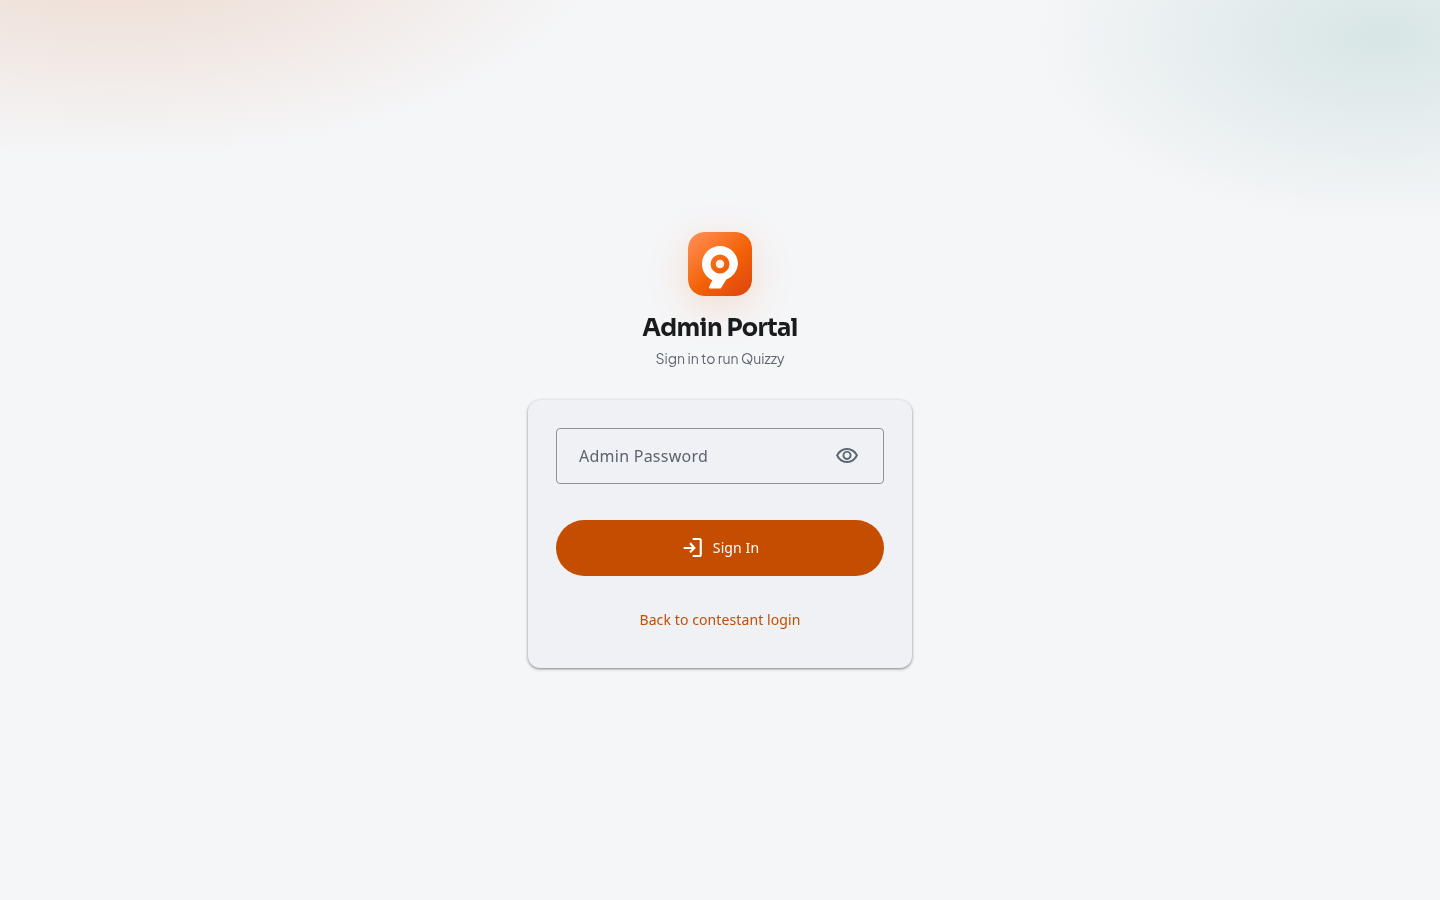
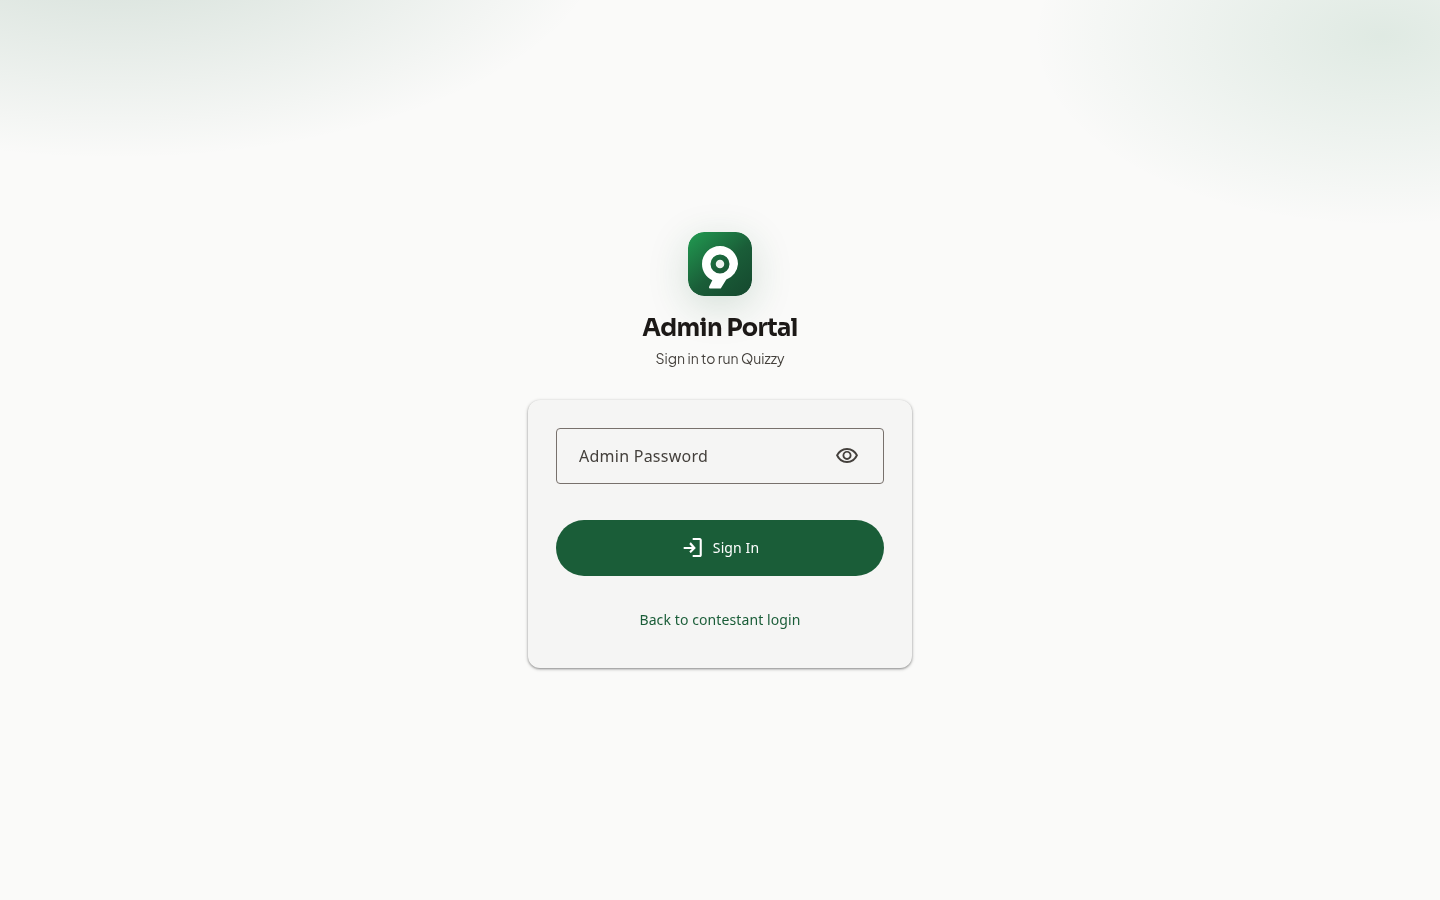
Switch Quizzy theme to WorkVar forest green
Retheme AWC MD3 tokens, logos, and brand accents to workvar.com
forest-800 (#1A5D38) and refresh landing screenshots.

diff --git a/app/admin/page.jsx b/app/admin/page.jsx
@@ -302,12 +302,12 @@ function AddQuestionModal({ quizId, sections, onClose, onAdded }) {
               </div>
               <div className="space-y-3">
                 {testCases.map((tc, i) => (
-                  <div key={i} className={`p-3 rounded-apple border ${tc.isHidden ? 'border-orange-200 bg-orange-50' : 'border-apple-gray-2 bg-white'}`}>
+                  <div key={i} className={`p-3 rounded-apple border ${tc.isHidden ? 'border-emerald-200 bg-emerald-50' : 'border-apple-gray-2 bg-white'}`}>
                     <div className="flex items-center justify-between mb-2">
                       <span className="text-xs font-bold text-apple-text-2">Test {i + 1}</span>
                       <div className="flex items-center gap-3">
                         <label className="flex items-center gap-1.5 cursor-pointer">
-                          <input type="checkbox" checked={tc.isHidden} onChange={e => updateTestCase(i, 'isHidden', e.target.checked)} className="accent-orange-500" />
+                          <input type="checkbox" checked={tc.isHidden} onChange={e => updateTestCase(i, 'isHidden', e.target.checked)} className="accent-emerald-700" />
                           <span className="text-xs text-apple-text-2">Hidden</span>
                         </label>
                         {testCases.length > 1 && (
@@ -1030,11 +1030,11 @@ function EditQuestionModal({ question, sections, onClose, onSaved }) {
               </div>
               <div className="space-y-3">
                 {testCases.map((tc, i) => (
-                  <div key={i} className={`p-3 rounded-apple border ${tc.isHidden ? 'border-orange-200 bg-orange-50' : 'border-apple-gray-2 bg-white'}`}>
+                  <div key={i} className={`p-3 rounded-apple border ${tc.isHidden ? 'border-emerald-200 bg-emerald-50' : 'border-apple-gray-2 bg-white'}`}>
                     <div className="flex items-center justify-between mb-2">
                       <span className="text-xs font-bold text-apple-text-2">Test {i + 1}</span>
                       <div className="flex items-center gap-3">
-                        <label className="flex items-center gap-1.5 cursor-pointer"><input type="checkbox" checked={tc.isHidden} onChange={e => updateTestCase(i, 'isHidden', e.target.checked)} className="accent-orange-500" /><span className="text-xs text-apple-text-2">Hidden</span></label>
+                        <label className="flex items-center gap-1.5 cursor-pointer"><input type="checkbox" checked={tc.isHidden} onChange={e => updateTestCase(i, 'isHidden', e.target.checked)} className="accent-emerald-700" /><span className="text-xs text-apple-text-2">Hidden</span></label>
                         {testCases.length > 1 && <button onClick={() => setTestCases(p => p.filter((_, idx) => idx !== i))} className="text-apple-text-3 hover:text-apple-red"><svg className="w-3.5 h-3.5" fill="none" viewBox="0 0 24 24" stroke="currentColor"><path strokeLinecap="round" strokeLinejoin="round" strokeWidth={2} d="M6 18L18 6M6 6l12 12"/></svg></button>}
                       </div>
                     </div>
@@ -1209,7 +1209,7 @@ function QuizQuestionsPanel({ quiz, onBack }) {
                     {q.isReleased ? <span className="text-xs font-semibold text-apple-green">Released</span> : <span className="text-xs text-apple-text-3">Unreleased</span>}
                     {q.type === 'CODING' && <span className="text-xs bg-blue-100 text-apple-blue font-semibold px-1.5 py-0.5 rounded-full">Coding</span>}
                     {q.type !== 'CODING' && q.isMultiAnswer && <span className="text-xs bg-purple-100 text-purple-600 font-semibold px-1.5 py-0.5 rounded-full">Multi</span>}
-                    {q.timeLimitSeconds && <span className="text-xs bg-orange-50 text-orange-600 font-semibold px-1.5 py-0.5 rounded-full">{q.timeLimitSeconds}s</span>}
+                    {q.timeLimitSeconds && <span className="text-xs bg-emerald-50 text-emerald-700 font-semibold px-1.5 py-0.5 rounded-full">{q.timeLimitSeconds}s</span>}
                     <span className="text-xs text-apple-text-3">{q.stats?.attempted || 0} responses</span>
                   </div>
                 </div>
@@ -1243,10 +1243,10 @@ function QuizQuestionsPanel({ quiz, onBack }) {
                         <p className="text-xs font-semibold text-apple-text-2 uppercase tracking-wide mb-2">Test Cases ({q.testCases.length})</p>
                         <div className="space-y-2">
                           {q.testCases.map((tc, ti) => (
-                            <div key={tc.id} className={`rounded-apple border p-3 text-xs font-mono ${tc.isHidden ? 'border-orange-200 bg-orange-50' : 'border-apple-gray-2 bg-white'}`}>
+                            <div key={tc.id} className={`rounded-apple border p-3 text-xs font-mono ${tc.isHidden ? 'border-emerald-200 bg-emerald-50' : 'border-apple-gray-2 bg-white'}`}>
                               <div className="flex items-center gap-2 mb-1">
                                 <span className="font-bold text-apple-text-2">Test {ti + 1}</span>
-                                {tc.isHidden && <span className="text-orange-600 font-semibold">Hidden</span>}
+                                {tc.isHidden && <span className="text-emerald-700 font-semibold">Hidden</span>}
                               </div>
                               {tc.input && <div><span className="text-apple-text-3">In: </span><span className="whitespace-pre-wrap text-apple-text">{tc.input}</span></div>}
                               <div><span className="text-apple-text-3">Expected: </span><span className="whitespace-pre-wrap text-apple-text">{tc.expectedOutput}</span></div>
@@ -1944,7 +1944,7 @@ function TeamsTab() {
                   </td>
                   <td className="px-5 py-3.5 text-right">
                     <div className="flex items-center justify-end gap-1">
-                      <button onClick={() => toggleBan(team)} disabled={banning[team.id]} title={team.isBanned ? 'Unban' : 'Ban'} className={`p-1.5 transition-colors ${team.isBanned ? 'text-apple-green hover:text-green-600' : 'text-orange-400 hover:text-orange-600'}`}>
+                      <button onClick={() => toggleBan(team)} disabled={banning[team.id]} title={team.isBanned ? 'Unban' : 'Ban'} className={`p-1.5 transition-colors ${team.isBanned ? 'text-apple-green hover:text-green-600' : 'text-emerald-600 hover:text-emerald-700'}`}>
                         {team.isBanned
                           ? <svg className="w-4 h-4" fill="none" viewBox="0 0 24 24" stroke="currentColor"><path strokeLinecap="round" strokeLinejoin="round" strokeWidth={2} d="M9 12l2 2 4-4m5.618-4.016A11.955 11.955 0 0112 2.944a11.955 11.955 0 01-8.618 3.04A12.02 12.02 0 003 9c0 5.591 3.824 10.29 9 11.622 5.176-1.332 9-6.03 9-11.622 0-1.042-.133-2.052-.382-3.016z"/></svg>
                           : <svg className="w-4 h-4" fill="none" viewBox="0 0 24 24" stroke="currentColor"><path strokeLinecap="round" strokeLinejoin="round" strokeWidth={2} d="M18.364 18.364A9 9 0 005.636 5.636m12.728 12.728A9 9 0 015.636 5.636m12.728 12.728L5.636 5.636"/></svg>

diff --git a/app/theme.css b/app/theme.css
@@ -1,47 +1,47 @@
 /*!
  * AWC UI — Material Design 3 theme for Quizzy
- * Seed primary: #F26207 (Quizzy brand orange)
- * Surfaces hand-tuned to cool neutrals (avoid warm cream + terracotta clustering).
+ * Seed: WorkVar forest green (#1A5D38 = forest-800 on workvar.com)
+ * Soft surfaces inspired by workvar forest-50 / stone neutrals.
  */
 
 :root {
-  --md-sys-color-primary: #C44D00;
+  --md-sys-color-primary: #1A5D38;
   --md-sys-color-on-primary: #FFFFFF;
-  --md-sys-color-primary-container: #FFDBCD;
-  --md-sys-color-on-primary-container: #3E1400;
-  --md-sys-color-inverse-primary: #FFB596;
-  --md-sys-color-secondary: #5C6370;
+  --md-sys-color-primary-container: #C3F5CD;
+  --md-sys-color-on-primary-container: #062816;
+  --md-sys-color-inverse-primary: #92EAAC;
+  --md-sys-color-secondary: #57534E;
   --md-sys-color-on-secondary: #FFFFFF;
-  --md-sys-color-secondary-container: #E6E8EC;
-  --md-sys-color-on-secondary-container: #191B1F;
-  --md-sys-color-tertiary: #006B5E;
+  --md-sys-color-secondary-container: #E7E5E4;
+  --md-sys-color-on-secondary-container: #1C1917;
+  --md-sys-color-tertiary: #1D7441;
   --md-sys-color-on-tertiary: #FFFFFF;
-  --md-sys-color-tertiary-container: #A0F2E2;
-  --md-sys-color-on-tertiary-container: #00201B;
+  --md-sys-color-tertiary-container: #E1FBE6;
+  --md-sys-color-on-tertiary-container: #062816;
   --md-sys-color-error: #BA1A1A;
   --md-sys-color-on-error: #FFFFFF;
   --md-sys-color-error-container: #FFDAD6;
   --md-sys-color-on-error-container: #410002;
-  --md-sys-color-background: #F5F6F8;
-  --md-sys-color-on-background: #191B1F;
-  --md-sys-color-surface: #F5F6F8;
-  --md-sys-color-on-surface: #191B1F;
-  --md-sys-color-surface-variant: #E3E5E9;
-  --md-sys-color-on-surface-variant: #5C6370;
+  --md-sys-color-background: #FAFAF9;
+  --md-sys-color-on-background: #1C1917;
+  --md-sys-color-surface: #FAFAF9;
+  --md-sys-color-on-surface: #1C1917;
+  --md-sys-color-surface-variant: #E1FBE6;
+  --md-sys-color-on-surface-variant: #44403C;
   --md-sys-color-surface-container-lowest: #FFFFFF;
-  --md-sys-color-surface-container-low: #EFF1F4;
-  --md-sys-color-surface-container: #E9EBEE;
-  --md-sys-color-surface-container-high: #E3E5E9;
-  --md-sys-color-surface-container-highest: #DDDFE3;
-  --md-sys-color-surface-dim: #D5D8DE;
-  --md-sys-color-surface-bright: #F5F6F8;
-  --md-sys-color-outline: #8B93A1;
-  --md-sys-color-outline-variant: #D5D8DE;
-  --md-sys-color-inverse-surface: #2E3138;
-  --md-sys-color-inverse-on-surface: #F0F2F5;
+  --md-sys-color-surface-container-low: #F5F5F4;
+  --md-sys-color-surface-container: #E7E5E4;
+  --md-sys-color-surface-container-high: #E1E3DE;
+  --md-sys-color-surface-container-highest: #D6D3D1;
+  --md-sys-color-surface-dim: #D6D3D1;
+  --md-sys-color-surface-bright: #FAFAF9;
+  --md-sys-color-outline: #78716C;
+  --md-sys-color-outline-variant: #D6D3D1;
+  --md-sys-color-inverse-surface: #292524;
+  --md-sys-color-inverse-on-surface: #F5F5F4;
   --md-sys-color-shadow: #000000;
   --md-sys-color-scrim: #000000;
-  --md-sys-color-surface-tint: #C44D00;
+  --md-sys-color-surface-tint: #1A5D38;
 
   --md-sys-typescale-font-family: var(--font-body), 'Roboto', system-ui, sans-serif;
   --md-ref-typeface-brand: var(--font-display), var(--font-body), system-ui, sans-serif;
@@ -49,41 +49,41 @@
 }
 
 [data-theme="dark"] {
-  --md-sys-color-primary: #FFB596;
-  --md-sys-color-on-primary: #581E00;
-  --md-sys-color-primary-container: #8C3700;
-  --md-sys-color-on-primary-container: #FFDBCD;
-  --md-sys-color-inverse-primary: #C44D00;
-  --md-sys-color-secondary: #C4C9D1;
-  --md-sys-color-on-secondary: #2E3138;
-  --md-sys-color-secondary-container: #454A54;
-  --md-sys-color-on-secondary-container: #E6E8EC;
-  --md-sys-color-tertiary: #84D5C6;
-  --md-sys-color-on-tertiary: #003730;
-  --md-sys-color-tertiary-container: #005047;
-  --md-sys-color-on-tertiary-container: #A0F2E2;
+  --md-sys-color-primary: #92EAAC;
+  --md-sys-color-on-primary: #062816;
+  --md-sys-color-primary-container: #1A5D38;
+  --md-sys-color-on-primary-container: #C3F5CD;
+  --md-sys-color-inverse-primary: #1A5D38;
+  --md-sys-color-secondary: #D6D3D1;
+  --md-sys-color-on-secondary: #292524;
+  --md-sys-color-secondary-container: #44403C;
+  --md-sys-color-on-secondary-container: #E7E5E4;
+  --md-sys-color-tertiary: #56D685;
+  --md-sys-color-on-tertiary: #062816;
+  --md-sys-color-tertiary-container: #164C30;
+  --md-sys-color-on-tertiary-container: #E1FBE6;
   --md-sys-color-error: #FFB4AB;
   --md-sys-color-on-error: #690005;
   --md-sys-color-error-container: #93000A;
   --md-sys-color-on-error-container: #FFDAD6;
-  --md-sys-color-background: #121418;
-  --md-sys-color-on-background: #E6E8EC;
-  --md-sys-color-surface: #121418;
-  --md-sys-color-on-surface: #E6E8EC;
-  --md-sys-color-surface-variant: #454A54;
-  --md-sys-color-on-surface-variant: #C4C9D1;
-  --md-sys-color-surface-container-lowest: #0C0E12;
-  --md-sys-color-surface-container-low: #1A1C22;
-  --md-sys-color-surface-container: #1E2128;
-  --md-sys-color-surface-container-high: #282B33;
-  --md-sys-color-surface-container-highest: #33363F;
-  --md-sys-color-surface-dim: #121418;
-  --md-sys-color-surface-bright: #383B44;
-  --md-sys-color-outline: #8B93A1;
-  --md-sys-color-outline-variant: #454A54;
-  --md-sys-color-inverse-surface: #E6E8EC;
-  --md-sys-color-inverse-on-surface: #2E3138;
+  --md-sys-color-background: #121411;
+  --md-sys-color-on-background: #E7E5E4;
+  --md-sys-color-surface: #121411;
+  --md-sys-color-on-surface: #E7E5E4;
+  --md-sys-color-surface-variant: #2A3A2F;
+  --md-sys-color-on-surface-variant: #C3F5CD;
+  --md-sys-color-surface-container-lowest: #0C0E0B;
+  --md-sys-color-surface-container-low: #1C1917;
+  --md-sys-color-surface-container: #211F1C;
+  --md-sys-color-surface-container-high: #292524;
+  --md-sys-color-surface-container-highest: #33302C;
+  --md-sys-color-surface-dim: #121411;
+  --md-sys-color-surface-bright: #38352F;
+  --md-sys-color-outline: #A8A29E;
+  --md-sys-color-outline-variant: #44403C;
+  --md-sys-color-inverse-surface: #E7E5E4;
+  --md-sys-color-inverse-on-surface: #292524;
   --md-sys-color-shadow: #000000;
   --md-sys-color-scrim: #000000;
-  --md-sys-color-surface-tint: #FFB596;
+  --md-sys-color-surface-tint: #92EAAC;
 }

diff --git a/tailwind.config.js b/tailwind.config.js
@@ -8,34 +8,35 @@ module.exports = {
     extend: {
       colors: {
         brand: {
-          orange: '#F26207',
-          'orange-soft': '#FF8A4C',
-          'orange-deep': '#E24A0F',
-          ink: '#191B1F',
-          'ink-2': '#5C6370',
-          'ink-3': '#8B93A1',
-          surface: '#F4F5F7',
+          // WorkVar forest green (aliases keep orange-* class names working)
+          orange: '#1A5D38',
+          'orange-soft': '#56D685',
+          'orange-deep': '#164C30',
+          ink: '#1C1917',
+          'ink-2': '#57534E',
+          'ink-3': '#78716C',
+          surface: '#FAFAF9',
           card: '#FFFFFF',
-          line: '#E6E8EC',
-          mist: '#FFF4EC',
+          line: '#D6D3D1',
+          mist: '#F2FDF4',
         },
         apple: {
-          // Remapped primary toward Replit-inspired orange for cohesive branding
-          blue: '#F26207',
-          green: '#22C55E',
+          // Remapped primary toward WorkVar forest green
+          blue: '#1A5D38',
+          green: '#20914D',
           red: '#EF4444',
-          orange: '#F26207',
+          orange: '#1A5D38',
           yellow: '#F59E0B',
           purple: '#7C3AED',
-          gray: '#F4F5F7',
-          'gray-2': '#E6E8EC',
-          'gray-3': '#D5D8DE',
-          'gray-4': '#C4C9D1',
-          'gray-5': '#A0A7B4',
-          'gray-6': '#8B93A1',
-          text: '#191B1F',
-          'text-2': '#5C6370',
-          'text-3': '#8B93A1',
+          gray: '#F5F5F4',
+          'gray-2': '#E7E5E4',
+          'gray-3': '#D6D3D1',
+          'gray-4': '#A8A29E',
+          'gray-5': '#78716C',
+          'gray-6': '#57534E',
+          text: '#1C1917',
+          'text-2': '#57534E',
+          'text-3': '#78716C',
         },
       },
       fontFamily: {
@@ -47,7 +48,7 @@ module.exports = {
         apple: '0 2px 8px rgba(25,27,31,0.06), 0 1px 2px rgba(25,27,31,0.04)',
         'apple-md': '0 8px 24px rgba(25,27,31,0.08), 0 2px 6px rgba(25,27,31,0.04)',
         'apple-lg': '0 16px 40px rgba(25,27,31,0.10), 0 4px 12px rgba(25,27,31,0.05)',
-        brand: '0 10px 40px rgba(242,98,7,0.18)',
+        brand: '0 10px 40px rgba(26,93,56,0.18)',
       },
       borderRadius: {
         apple: '10px',
@@ -57,7 +58,7 @@ module.exports = {
       },
       backgroundImage: {
         'brand-mesh':
-          'radial-gradient(1200px 600px at 10% -10%, rgba(255,138,76,0.28), transparent 55%), radial-gradient(900px 500px at 90% 10%, rgba(242,98,7,0.16), transparent 50%), radial-gradient(700px 400px at 50% 100%, rgba(255,196,150,0.22), transparent 55%), linear-gradient(180deg, #FFF8F3 0%, #F4F5F7 55%, #EEF0F4 100%)',
+          'radial-gradient(1200px 600px at 10% -10%, rgba(225,251,230,0.9), transparent 55%), radial-gradient(900px 500px at 90% 10%, rgba(195,245,205,0.45), transparent 50%), radial-gradient(700px 400px at 50% 100%, rgba(242,253,244,0.8), transparent 55%), linear-gradient(180deg, #F2FDF4 0%, #FAFAF9 55%, #F5F5F4 100%)',
       },
       keyframes: {
         brandFloat: {

diff --git a/components/Logo.jsx b/components/Logo.jsx
@@ -11,7 +11,7 @@ const SIZES = {
   hero: 80,
 };
 
-/** Quizzy mark — stylized Q with quiz pointer, Replit-inspired orange gradient. */
+/** Quizzy mark — stylized Q with quiz pointer, WorkVar forest green. */
 export function LogoMark({ size = 'md', className = '' }) {
   const px = typeof size === 'number' ? size : (SIZES[size] || SIZES.md);
   const uid = useId().replace(/:/g, '');
@@ -28,9 +28,9 @@ export function LogoMark({ size = 'md', className = '' }) {
     >
       <defs>
         <linearGradient id={gradId} x1="8" y1="4" x2="56" y2="60" gradientUnits="userSpaceOnUse">
-          <stop stopColor="#FF8A4C" />
-          <stop offset="0.55" stopColor="#F26207" />
-          <stop offset="1" stopColor="#E24A0F" />
+          <stop stopColor="#20914D" />
+          <stop offset="0.55" stopColor="#1A5D38" />
+          <stop offset="1" stopColor="#164C30" />
         </linearGradient>
       </defs>
       <rect width="64" height="64" rx="16" fill={`url(#${gradId})`} />

diff --git a/app/globals.css b/app/globals.css
@@ -3,11 +3,12 @@
 @tailwind utilities;
 
 :root {
-  --brand-orange: #F26207;
-  --brand-orange-soft: #FF8A4C;
-  --brand-ink: #191B1F;
-  --brand-surface: var(--md-sys-color-surface, #F5F6F8);
-  --brand-line: var(--md-sys-color-outline-variant, #D5D8DE);
+  /* WorkVar forest palette (legacy brand-* aliases map to forest) */
+  --brand-orange: #1A5D38;
+  --brand-orange-soft: #56D685;
+  --brand-ink: #1C1917;
+  --brand-surface: var(--md-sys-color-surface, #FAFAF9);
+  --brand-line: var(--md-sys-color-outline-variant, #D6D3D1);
 }
 
 *, *::before, *::after { box-sizing: border-box; }
